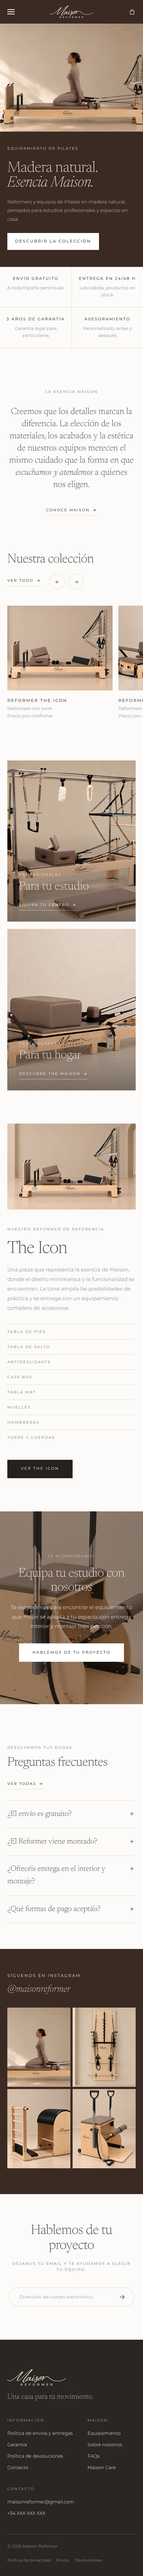
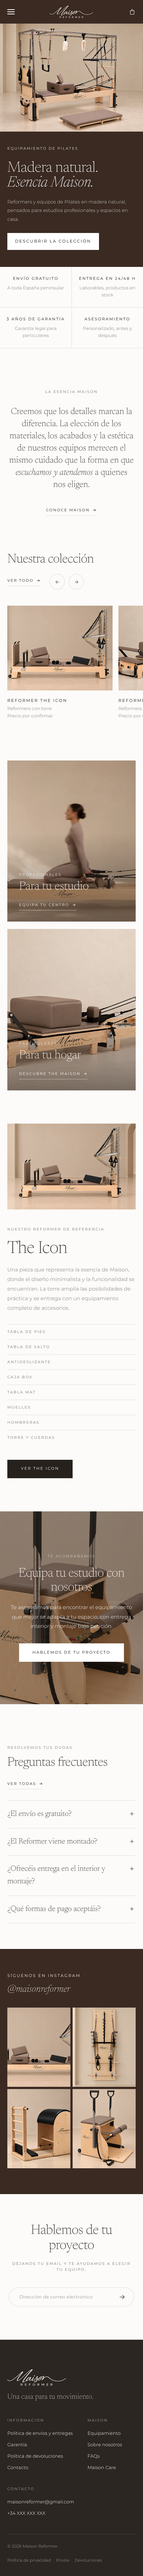
Foto principal: vuelve el Reformer The Cadillac
La foto de la chica pasa al bloque "Para tu estudio" y The Icon a la
primera foto de Instagram. Degradado más marcado para leer el titular.
Tema WordPress 1.6.0.

Claude-Session: https://claude.ai/code/session_01Kmjfpmw6MBJZFRJkHNTaPT

Changed region(s): [[0.0308, 0.2808, 0.9538, 0.3744], [0.0, 0.0, 1.0, 0.0624], [0.0308, 0.7799, 0.4923, 0.8111]]

diff --git a/maison-reformer/index.html b/maison-reformer/index.html
@@ -37,7 +37,7 @@
 
   <main>
     <section class="hero">
-      <img class="hero-img" src="img/hero.jpg" alt="Mujer practicando Pilates en el Reformer The Icon de Maison Reformer" fetchpriority="high">
+      <img class="hero-img" src="img/cadillac.jpg" alt="Reformer The Cadillac de Maison Reformer en madera natural" fetchpriority="high">
       <div class="hero-text">
         <div class="hero-inner">
           <p class="hero-eyebrow">Equipamiento de Pilates</p>
@@ -94,7 +94,7 @@
 
     <section class="duo">
       <a class="duo-tile reveal" href="contacto.html?asunto=Equipar%20mi%20estudio">
-        <img src="img/cadillac.jpg" alt="Reformer Cadillac en un estudio" loading="lazy">
+        <img src="img/hero.jpg" alt="Pilates en el Reformer The Icon" loading="lazy">
         <div class="duo-text">
           <span class="eyebrow">Profesionales</span>
           <h3>Para tu estudio</h3>
@@ -156,7 +156,7 @@
         <a class="insta-handle" href="https://www.instagram.com/" target="_blank" rel="noopener">@maisonreformer</a>
       </div>
       <div class="insta-grid">
-        <a class="reveal" href="https://www.instagram.com/" target="_blank" rel="noopener"><img src="img/hero.jpg" alt="Pilates en el Reformer The Icon" loading="lazy"></a>
+        <a class="reveal" href="https://www.instagram.com/" target="_blank" rel="noopener"><img src="img/the-icon.jpg" alt="Reformer The Icon" loading="lazy"></a>
         <a class="reveal" style="--d:.1s" href="https://www.instagram.com/" target="_blank" rel="noopener"><img src="img/wall-tower.jpg" alt="Wall Tower" loading="lazy"></a>
         <a class="reveal" style="--d:.2s" href="https://www.instagram.com/" target="_blank" rel="noopener"><img src="img/ladder-barrel.jpg" alt="Ladder Barrel" loading="lazy"></a>
         <a class="reveal" style="--d:.3s" href="https://www.instagram.com/" target="_blank" rel="noopener"><img src="img/wunda-chair.jpg" alt="Wunda Chair" loading="lazy"></a>

diff --git a/wordpress/maison-reformer/style.css b/wordpress/maison-reformer/style.css
@@ -3,7 +3,7 @@ Theme Name: Maison Reformer
 Theme URI: https://maisonreformer.com
 Author: Neris Studio
 Description: Tema a medida para Maison Reformer, equipamiento de Pilates en madera natural. Compatible con WooCommerce. Incluye importador de contenido en Apariencia → Maison Reformer.
-Version: 1.5.0
+Version: 1.6.0
 Requires at least: 6.2
 Requires PHP: 7.4
 WC requires at least: 8.0
@@ -736,6 +736,11 @@ strong, b { font-weight: 500; }
 .card .meta .name { font-size: 11px; }
 @media (max-width: 900px) { .grid { grid-template-columns: repeat(2, minmax(0, 1fr)); gap: 36px 14px; } }
 @media (max-width: 560px) { .grid { grid-template-columns: 1fr; } }
+
+/* v7 · Foto principal: Reformer The Cadillac */
+.hero-img { object-position: 60% 55%; }
+@media (max-width: 760px) { .hero img.hero-img { object-position: 50% 50%; } }
+.hero::after { background: linear-gradient(90deg, rgba(40, 30, 22, .66) 0%, rgba(40, 30, 22, .38) 38%, rgba(40, 30, 22, 0) 62%), linear-gradient(180deg, rgba(40, 30, 22, .35) 0%, rgba(40, 30, 22, 0) 22%); }
 
 /* =========================================================================
    WordPress

diff --git a/maison-reformer/css/style.css b/maison-reformer/css/style.css
@@ -723,3 +723,8 @@ strong, b { font-weight: 500; }
 .card .meta .name { font-size: 11px; }
 @media (max-width: 900px) { .grid { grid-template-columns: repeat(2, minmax(0, 1fr)); gap: 36px 14px; } }
 @media (max-width: 560px) { .grid { grid-template-columns: 1fr; } }
+
+/* v7 · Foto principal: Reformer The Cadillac */
+.hero-img { object-position: 60% 55%; }
+@media (max-width: 760px) { .hero img.hero-img { object-position: 50% 50%; } }
+.hero::after { background: linear-gradient(90deg, rgba(40, 30, 22, .66) 0%, rgba(40, 30, 22, .38) 38%, rgba(40, 30, 22, 0) 62%), linear-gradient(180deg, rgba(40, 30, 22, .35) 0%, rgba(40, 30, 22, 0) 22%); }

diff --git a/wordpress/maison-reformer/inc/customizer.php b/wordpress/maison-reformer/inc/customizer.php
@@ -13,12 +13,12 @@ function maison_defaults() {
 		'topbar'        => 'Bienvenida a Maison · Equipamiento de Pilates con envío gratuito a España peninsular',
 		'hero_title'    => 'Madera natural. Esencia Maison.',
 		'hero_subtitle' => 'Equipamiento de Pilates',
-		'hero_image'    => maison_img( 'hero.jpg' ),
+		'hero_image'    => maison_img( 'cadillac.jpg' ),
 		'grid_title'    => 'Nuestra colección',
 		'banner_title'  => 'Equipa tu estudio con nosotros',
 		'banner_text'   => 'Te asesoramos para encontrar el equipamiento que mejor se adapta a tu espacio, con entrega interior y montaje bajo petición.',
 		'banner_image'  => maison_img( 'wunda-chair.jpg' ),
-		'duo1_image'    => maison_img( 'cadillac.jpg' ),
+		'duo1_image'    => maison_img( 'hero.jpg' ),
 		'spotlight_image' => maison_img( 'the-icon.jpg' ),
 		'statement'     => 'Creemos que los detalles marcan la diferencia. La elección de los materiales, los acabados y la estética de nuestros equipos merecen el mismo cuidado que la forma en que escuchamos y atendemos a quienes nos eligen.',
 		'hero_lead'     => 'Reformers y equipos de Pilates en madera natural, pensados para estudios profesionales y espacios en casa.',
@@ -29,7 +29,7 @@ function maison_defaults() {
 		'mosaic3'       => maison_img( 'ladder-barrel.jpg' ),
 		'instagram_url'    => '',
 		'instagram_handle' => '@maisonreformer',
-		'insta1'        => maison_img( 'hero.jpg' ),
+		'insta1'        => maison_img( 'the-icon.jpg' ),
 		'insta2'        => maison_img( 'wall-tower.jpg' ),
 		'insta3'        => maison_img( 'ladder-barrel.jpg' ),
 		'insta4'        => maison_img( 'wunda-chair.jpg' ),

diff --git a/wordpress/maison-reformer/functions.php b/wordpress/maison-reformer/functions.php
@@ -7,7 +7,7 @@
 
 defined( 'ABSPATH' ) || exit;
 
-define( 'MAISON_VERSION', '1.5.0' );
+define( 'MAISON_VERSION', '1.6.0' );
 define( 'MAISON_DIR', get_template_directory() );
 define( 'MAISON_URI', get_template_directory_uri() );
 
